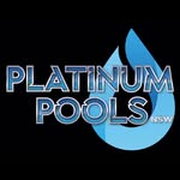
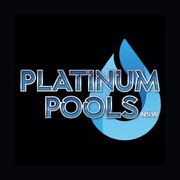
Add files via upload

Changed region(s): [[0.0278, 0.1389, 1.0, 0.8611]]

diff --git a/index.html b/index.html
@@ -1,9 +1,9 @@
 <!doctype html>
 <html lang="en-AU">
 <head>
-<meta charset="utf-8"><meta name="viewport" content="width=device-width,initial-scale=1,viewport-fit=cover"><meta name="theme-color" content="#101c2a"><meta name="description" content="Private job, quoting and site calculation tool for Platinum Pools NSW."><meta name="apple-mobile-web-app-capable" content="yes"><meta name="apple-mobile-web-app-status-bar-style" content="black-translucent"><meta name="apple-mobile-web-app-title" content="Platinum Ops"><link rel="apple-touch-icon" href="./apple-touch-icon.png"><link rel="icon" type="image/png" href="./platinum-pools-logo.png"><link rel="manifest" href="manifest.webmanifest"><title>Platinum Ops · v0.0.2</title>
+<meta charset="utf-8"><meta name="viewport" content="width=device-width,initial-scale=1,viewport-fit=cover"><meta name="theme-color" content="#111820"><meta name="description" content="Private job, quoting and site calculation tool for Platinum Pools NSW."><meta name="apple-mobile-web-app-capable" content="yes"><meta name="apple-mobile-web-app-status-bar-style" content="black-translucent"><meta name="apple-mobile-web-app-title" content="Platinum Ops"><link rel="apple-touch-icon" href="./apple-touch-icon.png"><link rel="icon" type="image/png" href="./platinum-pools-logo.png"><link rel="manifest" href="manifest.webmanifest"><title>Platinum Ops · v0.0.2</title>
 <style>
-:root{--navy:#101c2a;--navy2:#17283b;--gold:#c8a96a;--gold2:#e2cf9f;--ink:#17212b;--muted:#73808d;--line:#e3e8ed;--paper:#f4f6f8;--white:#fff;--green:#277a61;--red:#b84e4e;--shadow:0 8px 28px #15283b0d}*{box-sizing:border-box}body{margin:0;background:var(--paper);color:var(--ink);font:15px/1.45 Inter,ui-sans-serif,system-ui,-apple-system,BlinkMacSystemFont,"Segoe UI",sans-serif}button,input,select,textarea{font:inherit}button{cursor:pointer}.shell{min-height:100vh;display:grid;grid-template-columns:245px 1fr}.sidebar{background:var(--navy);color:#fff;padding:25px 16px;display:flex;flex-direction:column;gap:28px}.brand{padding:0 10px}.brand-mark{width:100%;max-width:174px;display:block;margin:0 0 15px;border-radius:8px;object-fit:contain;background:#050505}.brand h1{font-size:15px;letter-spacing:2px;margin:0}.brand p{font-size:10px;color:#aeb9c5;letter-spacing:2.5px;margin:4px 0}.nav{display:grid;gap:6px}.nav button{border:0;background:transparent;color:#b7c1cc;padding:12px 13px;text-align:left;border-radius:10px;display:flex;gap:12px;align-items:center}.nav button.active,.nav button:hover{background:#ffffff12;color:white}.nav button.active{box-shadow:inset 3px 0 var(--gold)}.nav .ico{width:20px;text-align:center;color:var(--gold2)}.side-foot{margin-top:auto;font-size:11px;color:#9ca9b6;padding:10px}.side-foot b{display:block;color:var(--gold2);font-weight:600;margin-bottom:5px}.main{min-width:0}.topbar{height:75px;background:#fff;border-bottom:1px solid var(--line);display:flex;align-items:center;justify-content:space-between;padding:0 34px;gap:14px}.eyebrow{font-size:10px;letter-spacing:2px;text-transform:uppercase;color:var(--muted);font-weight:700}.topbar h2{font-size:18px;margin:3px 0 0}.top-right{display:flex;align-items:center;gap:12px}.version{border:1px solid var(--line);border-radius:20px;padding:6px 10px;font-size:11px;color:var(--muted)}.avatar{height:42px;width:42px;border-radius:9px;background:#050505;object-fit:cover;border:1px solid #dce2e8}.content{padding:28px 34px 50px;max-width:1500px;margin:auto}.hero{background:linear-gradient(115deg,#101c2a,#20364a);border-radius:18px;padding:27px 30px;color:#fff;display:flex;justify-content:space-between;align-items:center;gap:18px;position:relative;overflow:hidden}.hero:after{content:"";position:absolute;width:250px;height:250px;border:1px solid #c8a96a35;border-radius:50%;right:8%;top:-140px;box-shadow:0 0 0 25px #c8a96a0a,0 0 0 55px #c8a96a08}.hero h3{font-size:25px;line-height:1.2;margin:8px 0}.hero p{color:#c1ccd6;margin:0;max-width:560px}.hero .eyebrow{color:var(--gold2)}.hero-actions{display:flex;gap:10px;z-index:1;flex-wrap:wrap}.btn{border:1px solid transparent;border-radius:9px;padding:10px 15px;font-weight:650;font-size:13px;display:inline-flex;align-items:center;justify-content:center;gap:8px}.btn.primary{background:var(--gold);color:#17212b}.btn.light{background:white;color:var(--navy)}.btn.outline{background:transparent;border-color:#d6dde4;color:var(--ink)}.btn.dark{background:var(--navy);color:#fff}.btn.small{padding:7px 10px;font-size:12px}.btn.danger{color:var(--red);background:#fff1f1;border-color:#f2d8d8}.stats{display:grid;grid-template-columns:repeat(4,minmax(0,1fr));gap:14px;margin:20px 0 27px}.stat,.panel,.tool-card{background:#fff;border:1px solid var(--line);border-radius:14px;box-shadow:var(--shadow)}.stat{padding:18px}.stat .label{font-size:12px;color:var(--muted)}.stat .num{font-size:27px;font-weight:750;margin:8px 0 1px;letter-spacing:-1px}.stat .hint{font-size:11px;color:var(--muted)}.section-head{display:flex;justify-content:space-between;align-items:center;gap:12px;margin:25px 0 13px}.section-head h3{margin:0;font-size:16px}.section-head p{margin:3px 0 0;color:var(--muted);font-size:12px}.dash-grid{display:grid;grid-template-columns:minmax(0,1.35fr) minmax(290px,.85fr);gap:18px}.panel{padding:20px;min-width:0}.panel-title{display:flex;justify-content:space-between;align-items:center;margin-bottom:16px}.panel-title h3{font-size:15px;margin:0}.panel-title span{font-size:11px;color:var(--muted)}.job-list{display:grid;gap:0}.job-row{display:flex;align-items:center;gap:12px;padding:13px 0;border-top:1px solid #edf0f3}.job-row:first-child{border-top:0}.job-symbol{width:40px;height:40px;border-radius:11px;background:#f3efe5;color:#9a793b;display:grid;place-items:center;font-size:18px;flex-shrink:0}.job-info{min-width:0;flex:1}.job-info b{font-size:13px;display:block;overflow:hidden;text-overflow:ellipsis;white-space:nowrap}.job-info small{font-size:11px;color:var(--muted)}.status{font-size:10px;font-weight:700;padding:5px 8px;border-radius:20px;white-space:nowrap;background:#edf4f0;color:var(--green)}.status.quoted{background:#fff5df;color:#946c1e}.status.planning{background:#eaf0f8;color:#48688d}.quick-grid{display:grid;grid-template-columns:1fr 1fr;gap:10px}.quick{padding:15px;border:1px solid var(--line);border-radius:12px;background:#fff;text-align:left;min-height:104px}.quick:hover{border-color:var(--gold)}.quick .qico{font-size:20px;margin-bottom:8px}.quick b{display:block;font-size:12px}.quick small{color:var(--muted);font-size:11px}.page-head{display:flex;justify-content:space-between;align-items:flex-start;gap:15px;margin-bottom:22px}.page-head h3{font-size:23px;margin:3px 0 5px}.page-head p{margin:0;color:var(--muted);font-size:13px}.form-grid{display:grid;grid-template-columns:repeat(2,minmax(0,1fr));gap:14px}.field{display:grid;gap:6px}.field.full{grid-column:1/-1}.field label{font-size:12px;font-weight:700;color:#42505e}.field input,.field select,.field textarea{width:100%;border:1px solid #dce2e8;border-radius:9px;padding:10px 11px;background:white;outline:none;color:var(--ink);min-width:0}.field input:focus,.field select:focus,.field textarea:focus{border-color:var(--gold);box-shadow:0 0 0 3px #c8a96a20}.field textarea{min-height:90px;resize:vertical}.form-actions{display:flex;gap:8px;justify-content:flex-end;margin-top:18px;flex-wrap:wrap}.table-wrap{overflow:auto}.data-table{border-collapse:collapse;width:100%;font-size:12px}.data-table th{text-align:left;color:var(--muted);font-size:10px;text-transform:uppercase;letter-spacing:.8px;background:#f8f9fa}.data-table td,.data-table th{padding:12px;border-bottom:1px solid #edf0f3;white-space:nowrap}.data-table td:last-child{text-align:right}.empty{padding:30px 15px;text-align:center;color:var(--muted);font-size:13px}.line-items{display:grid;gap:10px}.line-item{display:grid;grid-template-columns:minmax(0,1fr) 90px 115px 35px;gap:8px;align-items:center}.line-item input{min-width:0;width:100%;border:1px solid var(--line);border-radius:8px;padding:9px}.quote-totals{margin:18px 0 0 auto;max-width:300px;display:grid;gap:9px}.total-row{display:flex;justify-content:space-between;color:var(--muted);font-size:13px}.total-row.grand{padding-top:10px;border-top:1px solid var(--line);font-weight:800;color:var(--ink);font-size:17px}.calc-result{border-radius:12px;background:#f4f0e7;padding:18px;margin-top:18px;display:flex;justify-content:space-between;gap:10px;align-items:center}.calc-result b{font-size:25px}.calc-result small{color:var(--muted)}.link-list{display:grid;grid-template-columns:repeat(2,minmax(0,1fr));gap:12px}.resource{padding:16px;border:1px solid var(--line);border-radius:12px;display:flex;gap:12px;align-items:flex-start;color:inherit;text-decoration:none;background:white}.resource:hover{border-color:var(--gold)}.resource .r-ico{font-size:20px}.resource b{display:block;font-size:13px}.resource small{color:var(--muted);font-size:11px;display:block;margin-top:3px}.notice{background:#fff8e9;border:1px solid #efdfba;padding:12px 14px;border-radius:10px;font-size:12px;color:#70592d;margin-bottom:16px}.hidden{display:none!important}.toast{position:fixed;bottom:20px;left:50%;transform:translateX(-50%);background:#142537;color:white;padding:12px 18px;border-radius:10px;box-shadow:var(--shadow);z-index:10;font-size:13px}.mobile-nav{display:none}
+:root{--navy:#111820;--navy2:#1c2932;--gold:#35b7c9;--gold2:#a9edf2;--ink:#17212b;--muted:#73808d;--line:#e3e8ed;--paper:#f3f7f8;--white:#fff;--green:#277a61;--red:#b84e4e;--shadow:0 8px 28px #15283b0d}*{box-sizing:border-box}body{margin:0;background:var(--paper);color:var(--ink);font:15px/1.45 Inter,ui-sans-serif,system-ui,-apple-system,BlinkMacSystemFont,"Segoe UI",sans-serif}button,input,select,textarea{font:inherit}button{cursor:pointer}.shell{min-height:100vh;display:grid;grid-template-columns:245px 1fr}.sidebar{background:var(--navy);color:#fff;padding:25px 16px;display:flex;flex-direction:column;gap:28px}.brand{padding:0 10px}.brand-mark{width:100%;max-width:174px;display:block;margin:0 0 15px;border-radius:8px;object-fit:contain;background:#050505}.brand h1{font-size:15px;letter-spacing:2px;margin:0}.brand p{font-size:10px;color:#aeb9c5;letter-spacing:2.5px;margin:4px 0}.nav{display:grid;gap:6px}.nav button{border:0;background:transparent;color:#b7c1cc;padding:12px 13px;text-align:left;border-radius:10px;display:flex;gap:12px;align-items:center}.nav button.active,.nav button:hover{background:#ffffff12;color:white}.nav button.active{box-shadow:inset 3px 0 var(--gold)}.nav .ico{width:20px;text-align:center;color:var(--gold2)}.side-foot{margin-top:auto;font-size:11px;color:#9ca9b6;padding:10px}.side-foot b{display:block;color:var(--gold2);font-weight:600;margin-bottom:5px}.main{min-width:0}.topbar{height:75px;background:#fff;border-bottom:1px solid var(--line);display:flex;align-items:center;justify-content:space-between;padding:0 34px;gap:14px}.eyebrow{font-size:10px;letter-spacing:2px;text-transform:uppercase;color:var(--muted);font-weight:700}.topbar h2{font-size:18px;margin:3px 0 0}.top-right{display:flex;align-items:center;gap:12px}.version{border:1px solid var(--line);border-radius:20px;padding:6px 10px;font-size:11px;color:var(--muted)}.avatar{height:42px;width:42px;border-radius:9px;background:#050505;object-fit:cover;border:1px solid #dce2e8}.content{padding:28px 34px 50px;max-width:1500px;margin:auto}.hero{background:linear-gradient(115deg,#101c2a,#20364a);border-radius:18px;padding:27px 30px;color:#fff;display:flex;justify-content:space-between;align-items:center;gap:18px;position:relative;overflow:hidden}.hero:after{content:"";position:absolute;width:250px;height:250px;border:1px solid #c8a96a35;border-radius:50%;right:8%;top:-140px;box-shadow:0 0 0 25px #c8a96a0a,0 0 0 55px #c8a96a08}.hero h3{font-size:25px;line-height:1.2;margin:8px 0}.hero p{color:#c1ccd6;margin:0;max-width:560px}.hero .eyebrow{color:var(--gold2)}.hero-actions{display:flex;gap:10px;z-index:1;flex-wrap:wrap}.btn{border:1px solid transparent;border-radius:9px;padding:10px 15px;font-weight:650;font-size:13px;display:inline-flex;align-items:center;justify-content:center;gap:8px}.btn.primary{background:var(--gold);color:#17212b}.btn.light{background:white;color:var(--navy)}.btn.outline{background:transparent;border-color:#d6dde4;color:var(--ink)}.btn.dark{background:var(--navy);color:#fff}.btn.small{padding:7px 10px;font-size:12px}.btn.danger{color:var(--red);background:#fff1f1;border-color:#f2d8d8}.stats{display:grid;grid-template-columns:repeat(4,minmax(0,1fr));gap:14px;margin:20px 0 27px}.stat,.panel,.tool-card{background:#fff;border:1px solid var(--line);border-radius:14px;box-shadow:var(--shadow)}.stat{padding:18px}.stat .label{font-size:12px;color:var(--muted)}.stat .num{font-size:27px;font-weight:750;margin:8px 0 1px;letter-spacing:-1px}.stat .hint{font-size:11px;color:var(--muted)}.section-head{display:flex;justify-content:space-between;align-items:center;gap:12px;margin:25px 0 13px}.section-head h3{margin:0;font-size:16px}.section-head p{margin:3px 0 0;color:var(--muted);font-size:12px}.dash-grid{display:grid;grid-template-columns:minmax(0,1.35fr) minmax(290px,.85fr);gap:18px}.panel{padding:20px;min-width:0}.panel-title{display:flex;justify-content:space-between;align-items:center;margin-bottom:16px}.panel-title h3{font-size:15px;margin:0}.panel-title span{font-size:11px;color:var(--muted)}.job-list{display:grid;gap:0}.job-row{display:flex;align-items:center;gap:12px;padding:13px 0;border-top:1px solid #edf0f3}.job-row:first-child{border-top:0}.job-symbol{width:40px;height:40px;border-radius:11px;background:#f3efe5;color:#9a793b;display:grid;place-items:center;font-size:18px;flex-shrink:0}.job-info{min-width:0;flex:1}.job-info b{font-size:13px;display:block;overflow:hidden;text-overflow:ellipsis;white-space:nowrap}.job-info small{font-size:11px;color:var(--muted)}.status{font-size:10px;font-weight:700;padding:5px 8px;border-radius:20px;white-space:nowrap;background:#edf4f0;color:var(--green)}.status.quoted{background:#fff5df;color:#946c1e}.status.planning{background:#eaf0f8;color:#48688d}.quick-grid{display:grid;grid-template-columns:1fr 1fr;gap:10px}.quick{padding:15px;border:1px solid var(--line);border-radius:12px;background:#fff;text-align:left;min-height:104px}.quick:hover{border-color:var(--gold)}.quick .qico{font-size:20px;margin-bottom:8px}.quick b{display:block;font-size:12px}.quick small{color:var(--muted);font-size:11px}.page-head{display:flex;justify-content:space-between;align-items:flex-start;gap:15px;margin-bottom:22px}.page-head h3{font-size:23px;margin:3px 0 5px}.page-head p{margin:0;color:var(--muted);font-size:13px}.form-grid{display:grid;grid-template-columns:repeat(2,minmax(0,1fr));gap:14px}.field{display:grid;gap:6px}.field.full{grid-column:1/-1}.field label{font-size:12px;font-weight:700;color:#42505e}.field input,.field select,.field textarea{width:100%;border:1px solid #dce2e8;border-radius:9px;padding:10px 11px;background:white;outline:none;color:var(--ink);min-width:0}.field input:focus,.field select:focus,.field textarea:focus{border-color:var(--gold);box-shadow:0 0 0 3px #c8a96a20}.field textarea{min-height:90px;resize:vertical}.form-actions{display:flex;gap:8px;justify-content:flex-end;margin-top:18px;flex-wrap:wrap}.table-wrap{overflow:auto}.data-table{border-collapse:collapse;width:100%;font-size:12px}.data-table th{text-align:left;color:var(--muted);font-size:10px;text-transform:uppercase;letter-spacing:.8px;background:#f8f9fa}.data-table td,.data-table th{padding:12px;border-bottom:1px solid #edf0f3;white-space:nowrap}.data-table td:last-child{text-align:right}.empty{padding:30px 15px;text-align:center;color:var(--muted);font-size:13px}.line-items{display:grid;gap:10px}.line-item{display:grid;grid-template-columns:minmax(0,1fr) 90px 115px 35px;gap:8px;align-items:center}.line-item input{min-width:0;width:100%;border:1px solid var(--line);border-radius:8px;padding:9px}.quote-totals{margin:18px 0 0 auto;max-width:300px;display:grid;gap:9px}.total-row{display:flex;justify-content:space-between;color:var(--muted);font-size:13px}.total-row.grand{padding-top:10px;border-top:1px solid var(--line);font-weight:800;color:var(--ink);font-size:17px}.calc-result{border-radius:12px;background:#f4f0e7;padding:18px;margin-top:18px;display:flex;justify-content:space-between;gap:10px;align-items:center}.calc-result b{font-size:25px}.calc-result small{color:var(--muted)}.link-list{display:grid;grid-template-columns:repeat(2,minmax(0,1fr));gap:12px}.resource{padding:16px;border:1px solid var(--line);border-radius:12px;display:flex;gap:12px;align-items:flex-start;color:inherit;text-decoration:none;background:white}.resource:hover{border-color:var(--gold)}.resource .r-ico{font-size:20px}.resource b{display:block;font-size:13px}.resource small{color:var(--muted);font-size:11px;display:block;margin-top:3px}.notice{background:#fff8e9;border:1px solid #efdfba;padding:12px 14px;border-radius:10px;font-size:12px;color:#70592d;margin-bottom:16px}.hidden{display:none!important}.toast{position:fixed;bottom:20px;left:50%;transform:translateX(-50%);background:#142537;color:white;padding:12px 18px;border-radius:10px;box-shadow:var(--shadow);z-index:10;font-size:13px}.mobile-nav{display:none}
 @media(max-width:1000px){.shell{grid-template-columns:205px 1fr}.content{padding:22px}.topbar{padding:0 22px}.stats{grid-template-columns:repeat(2,minmax(0,1fr))}.dash-grid{grid-template-columns:1fr}.hero{align-items:flex-start;flex-direction:column}.hero:after{right:-60px}.hero-actions{margin-top:4px}}
 @media(max-width:700px){.shell{display:block;padding-bottom:70px}.sidebar{display:none}.topbar{height:64px;padding:0 16px}.topbar h2{font-size:16px}.content{padding:17px 14px 30px}.hero{padding:22px 19px;border-radius:14px}.hero h3{font-size:22px}.hero p{font-size:13px}.hero-actions{width:100%}.hero-actions .btn{flex:1}.stats{gap:9px;margin:14px 0 23px}.stat{padding:13px}.stat .num{font-size:23px}.stat .label{font-size:11px}.stat .hint{font-size:10px}.panel{padding:15px}.page-head h3{font-size:21px}.form-grid{grid-template-columns:1fr}.field.full{grid-column:auto}.link-list{grid-template-columns:1fr}.line-item{grid-template-columns:minmax(0,1fr) 65px 90px 30px}.line-item input{padding:8px 6px;font-size:12px}.mobile-nav{position:fixed;bottom:0;left:0;right:0;display:flex;justify-content:space-around;background:#101c2a;border-top:1px solid #ffffff18;padding:7px 4px max(7px,env(safe-area-inset-bottom));z-index:5}.mobile-nav button{border:0;background:transparent;color:#aeb9c5;font-size:10px;display:grid;gap:3px;justify-items:center;padding:3px 8px;min-width:52px}.mobile-nav button span:first-child{font-size:18px}.mobile-nav button.active{color:var(--gold2)}.version{font-size:10px;padding:5px 7px}.top-right{gap:7px}.avatar{height:30px;width:30px}.data-table td,.data-table th{padding:10px 8px}.quick{min-height:94px;padding:12px}.calc-result b{font-size:22px}}
 </style></head>
@@ -20,7 +20,7 @@ function statusClass(s){return s==='Quoted'?'quoted':s==='Planning'?'planning':'
 function dashboard(){const active=state.jobs.filter(j=>!['Completed','Lost'].includes(j.status)).length;const quoted=state.quotes.reduce((a,q)=>a+Number(q.total||0),0);return `<section class="hero"><div><div class="eyebrow">BUILT FOR THE JOB SITE</div><h3>Good work starts<br>with a clear plan.</h3><p>Your private workspace for pool jobs, quotes, site calculations and the NSW guidelines you need close at hand.</p></div><div class="hero-actions"><button class="btn primary" onclick="newJob()">＋ New job</button><button class="btn light" onclick="newQuote()">＋ Build a quote</button></div></section><section class="stats"><div class="stat"><div class="label">Active jobs</div><div class="num">${active}</div><div class="hint">In progress / planning</div></div><div class="stat"><div class="label">Stored jobs</div><div class="num">${state.jobs.length}</div><div class="hint">Job records on this device</div></div><div class="stat"><div class="label">Quotes created</div><div class="num">${state.quotes.length}</div><div class="hint">Saved quote drafts</div></div><div class="stat"><div class="label">Quote total</div><div class="num" style="font-size:22px">${money(quoted)}</div><div class="hint">Combined saved quotes</div></div></section><div class="dash-grid"><section class="panel"><div class="panel-title"><h3>Recent jobs</h3><button class="btn outline small" onclick="go('jobs')">View all →</button></div>${state.jobs.length?`<div class="job-list">${state.jobs.slice(0,5).map(j=>`<div class="job-row"><div class="job-symbol">▤</div><div class="job-info"><b>${esc(j.name||'Untitled job')}</b><small>${esc(j.client||'No client')} · ${esc(j.suburb||'No location')}</small></div><span class="status ${statusClass(j.status)}">${esc(j.status||'Lead')}</span><button class="btn outline small" onclick="editJob('${j.id}')">Open</button></div>`).join('')}</div>`:`<div class="empty">No jobs yet. Create your first job to start storing client details, notes and plan references.</div>`}</section><section class="panel"><div class="panel-title"><h3>Quick tools</h3><span>Shortcuts</span></div><div class="quick-grid"><button class="quick" onclick="newQuote()"><div class="qico">＄</div><b>Build a quote</b><small>Items, quantities & totals</small></button><button class="quick" onclick="go('earthworks')"><div class="qico">▱</div><b>Earthworks volume</b><small>Cut volume & swell estimate</small></button><button class="quick" onclick="go('resources')"><div class="qico">↗</div><b>Pool guidelines</b><small>NSW government links</small></button><button class="quick" onclick="go('jobs')"><div class="qico">▧</div><b>Job & plan register</b><small>Find project details</small></button></div></section></div><section class="panel" style="margin-top:18px"><div class="panel-title"><h3>Keep in mind</h3><span>v0.0.2 branded build</span></div><div style="font-size:12px;color:var(--muted)">This first version stores records in this browser on this device. Export a backup regularly and avoid storing sensitive client documents until secure cloud storage and access controls are added. Pool compliance and excavation quantities must be checked against the actual site, approved plans and current requirements.</div></section>`}
 function newJob(){state.editingJob=null;state.page='jobs';render(true)}function editJob(id){state.editingJob=state.jobs.find(j=>j.id===id)||null;state.page='jobs';render(true)}
 function jobsPage(showForm=false){if(showForm||state.editingJob){const j=state.editingJob||{};return `<div class="page-head"><div><div class="eyebrow">PROJECT REGISTER</div><h3>${j.id?'Edit job':'Create a job'}</h3><p>Keep the job basics and plan/document references together.</p></div><button class="btn outline" onclick="state.editingJob=null;render()">← Back to jobs</button></div><section class="panel"><form onsubmit="saveJob(event)"><div class="form-grid"><div class="field"><label>Job name / reference *</label><input name="name" required value="${esc(j.name)}" placeholder="e.g. Smith — Shell Cove pool"></div><div class="field"><label>Client name</label><input name="client" value="${esc(j.client)}" placeholder="Client / builder"></div><div class="field"><label>Site address</label><input name="address" value="${esc(j.address)}" placeholder="Street address"></div><div class="field"><label>Suburb</label><input name="suburb" value="${esc(j.suburb)}" placeholder="e.g. Kiama"></div><div class="field"><label>Job status</label><select name="status">${['Lead','Quoting','Quoted','Planning','Scheduled','In progress','Completed','Lost'].map(s=>`<option ${j.status===s?'selected':''}>${s}</option>`).join('')}</select></div><div class="field"><label>Target start date</label><input type="date" name="date" value="${esc(j.date)}"></div><div class="field"><label>Pool type / model</label><input name="pool" value="${esc(j.pool)}" placeholder="Fibreglass / plunge / model"></div><div class="field"><label>Plan / document reference</label><input name="plan" value="${esc(j.plan)}" placeholder="File name, Drive link or server path"></div><div class="field full"><label>Site notes / approvals / access</label><textarea name="notes" placeholder="Access, soil, rock, services, approvals, customer requirements...">${esc(j.notes)}</textarea></div></div><div class="form-actions"><button type="button" class="btn outline" onclick="state.editingJob=null;render()">Cancel</button><button class="btn primary">Save job</button></div><input type="hidden" name="id" value="${esc(j.id)}"></form></section>`}
-return `<div class="page-head"><div><div class="eyebrow">PROJECT REGISTER</div><h3>Jobs & plans</h3><p>One place for client details, site notes and plan references.</p></div><button class="btn primary" onclick="newJob()">＋ New job</button></div><div class="notice">v0.0.1 stores plan references and links, not uploaded plan files. Attachments and secure cloud storage can be added in a later version.</div><section class="panel"><div class="table-wrap"><table class="data-table"><thead><tr><th>Job</th><th>Client</th><th>Location</th><th>Status</th><th>Plan ref</th><th>Action</th></tr></thead><tbody>${state.jobs.length?state.jobs.map(j=>`<tr><td><b>${esc(j.name)}</b><br><span style="color:var(--muted)">${esc(j.pool||'')}</span></td><td>${esc(j.client||'—')}</td><td>${esc(j.suburb||j.address||'—')}</td><td><span class="status ${statusClass(j.status)}">${esc(j.status||'Lead')}</span></td><td>${j.plan?`<a href="${/^https?:\/\//i.test(j.plan)?esc(j.plan):'#'}" ${/^https?:\/\//i.test(j.plan)?'target="_blank" rel="noopener"':'onclick="return false"'}>${esc(j.plan)}</a>`:'—'}</td><td><button class="btn outline small" onclick="editJob('${j.id}')">Edit</button> <button class="btn danger small" onclick="deleteJob('${j.id}')">×</button></td></tr>`).join(''):`<tr><td colspan="6"><div class="empty">No jobs saved yet.</div></td></tr>`}</tbody></table></div><div class="form-actions"><button class="btn outline" onclick="exportData()">↓ Export backup</button><button class="btn outline" onclick="$('#importFile').click()">↑ Import backup</button><input id="importFile" type="file" accept="application/json" class="hidden" onchange="importData(event)"></div></section>`}
+return `<div class="page-head"><div><div class="eyebrow">PROJECT REGISTER</div><h3>Jobs & plans</h3><p>One place for client details, site notes and plan references.</p></div><button class="btn primary" onclick="newJob()">＋ New job</button></div><div class="notice">v0.0.2 stores plan references and links, not uploaded plan files. Attachments and secure cloud storage can be added in a later version.</div><section class="panel"><div class="table-wrap"><table class="data-table"><thead><tr><th>Job</th><th>Client</th><th>Location</th><th>Status</th><th>Plan ref</th><th>Action</th></tr></thead><tbody>${state.jobs.length?state.jobs.map(j=>`<tr><td><b>${esc(j.name)}</b><br><span style="color:var(--muted)">${esc(j.pool||'')}</span></td><td>${esc(j.client||'—')}</td><td>${esc(j.suburb||j.address||'—')}</td><td><span class="status ${statusClass(j.status)}">${esc(j.status||'Lead')}</span></td><td>${j.plan?`<a href="${/^https?:\/\//i.test(j.plan)?esc(j.plan):'#'}" ${/^https?:\/\//i.test(j.plan)?'target="_blank" rel="noopener"':'onclick="return false"'}>${esc(j.plan)}</a>`:'—'}</td><td><button class="btn outline small" onclick="editJob('${j.id}')">Edit</button> <button class="btn danger small" onclick="deleteJob('${j.id}')">×</button></td></tr>`).join(''):`<tr><td colspan="6"><div class="empty">No jobs saved yet.</div></td></tr>`}</tbody></table></div><div class="form-actions"><button class="btn outline" onclick="exportData()">↓ Export backup</button><button class="btn outline" onclick="$('#importFile').click()">↑ Import backup</button><input id="importFile" type="file" accept="application/json" class="hidden" onchange="importData(event)"></div></section>`}
 function saveJob(e){e.preventDefault();const d=Object.fromEntries(new FormData(e.target).entries());const id=d.id||crypto.randomUUID();const obj={...d,id,updated:new Date().toISOString()};const i=state.jobs.findIndex(j=>j.id===id);if(i>=0)state.jobs[i]=obj;else state.jobs.unshift(obj);state.editingJob=null;save();toast('Job saved on this device')}
 function deleteJob(id){if(confirm('Delete this job from this device?')){state.jobs=state.jobs.filter(j=>j.id!==id);save();toast('Job deleted')}}
 function newQuote(){state.editingQuote=null;state.page='quotes';render(true)}function editQuote(id){state.editingQuote=state.quotes.find(q=>q.id===id)||null;state.page='quotes';render(true)}

diff --git a/sw.js b/sw.js
@@ -1,5 +1,5 @@
 /* Platinum Ops service worker. Bump CACHE_VERSION on every release. */
-const CACHE_VERSION = 'platinum-ops-v0.0.2';
+const CACHE_VERSION = 'platinum-ops-v0.0.2-aqua';
 const APP_SHELL = ['./', './index.html', './manifest.webmanifest', './icon.svg', './platinum-pools-logo.png', './apple-touch-icon.png'];
 self.addEventListener('install', event => {
   event.waitUntil(caches.open(CACHE_VERSION).then(cache => cache.addAll(APP_SHELL)).then(() => self.skipWaiting()));
